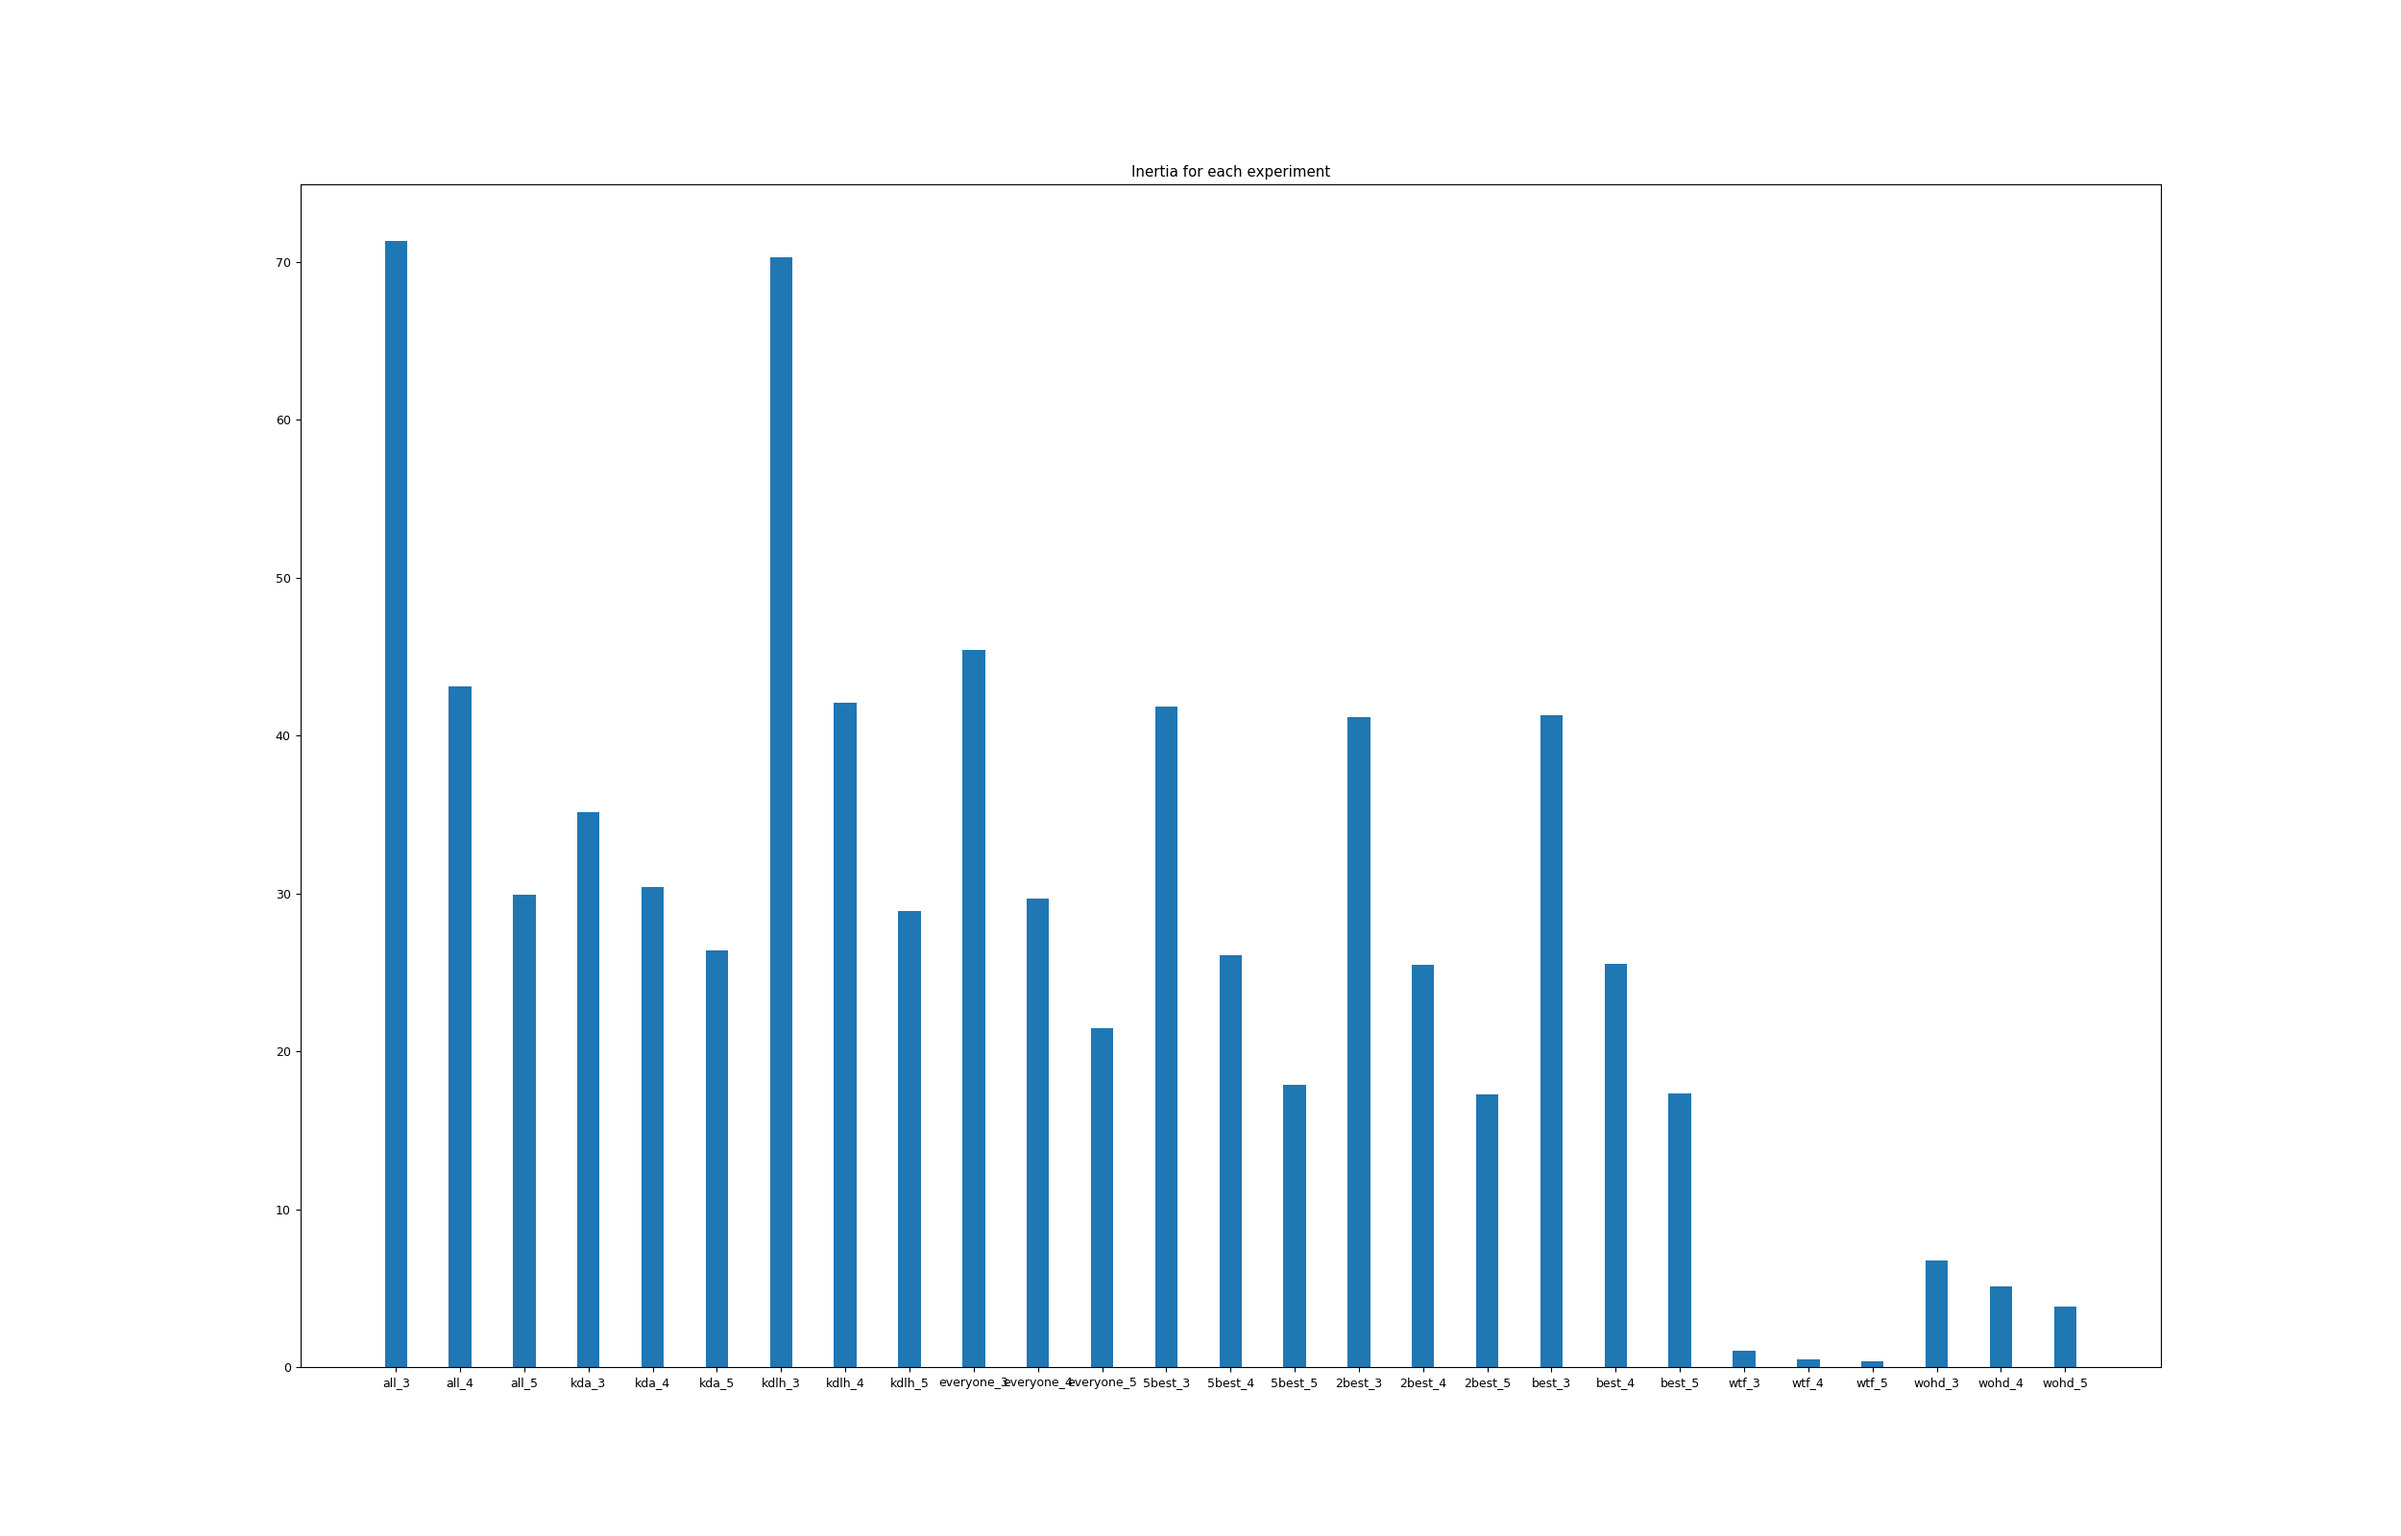
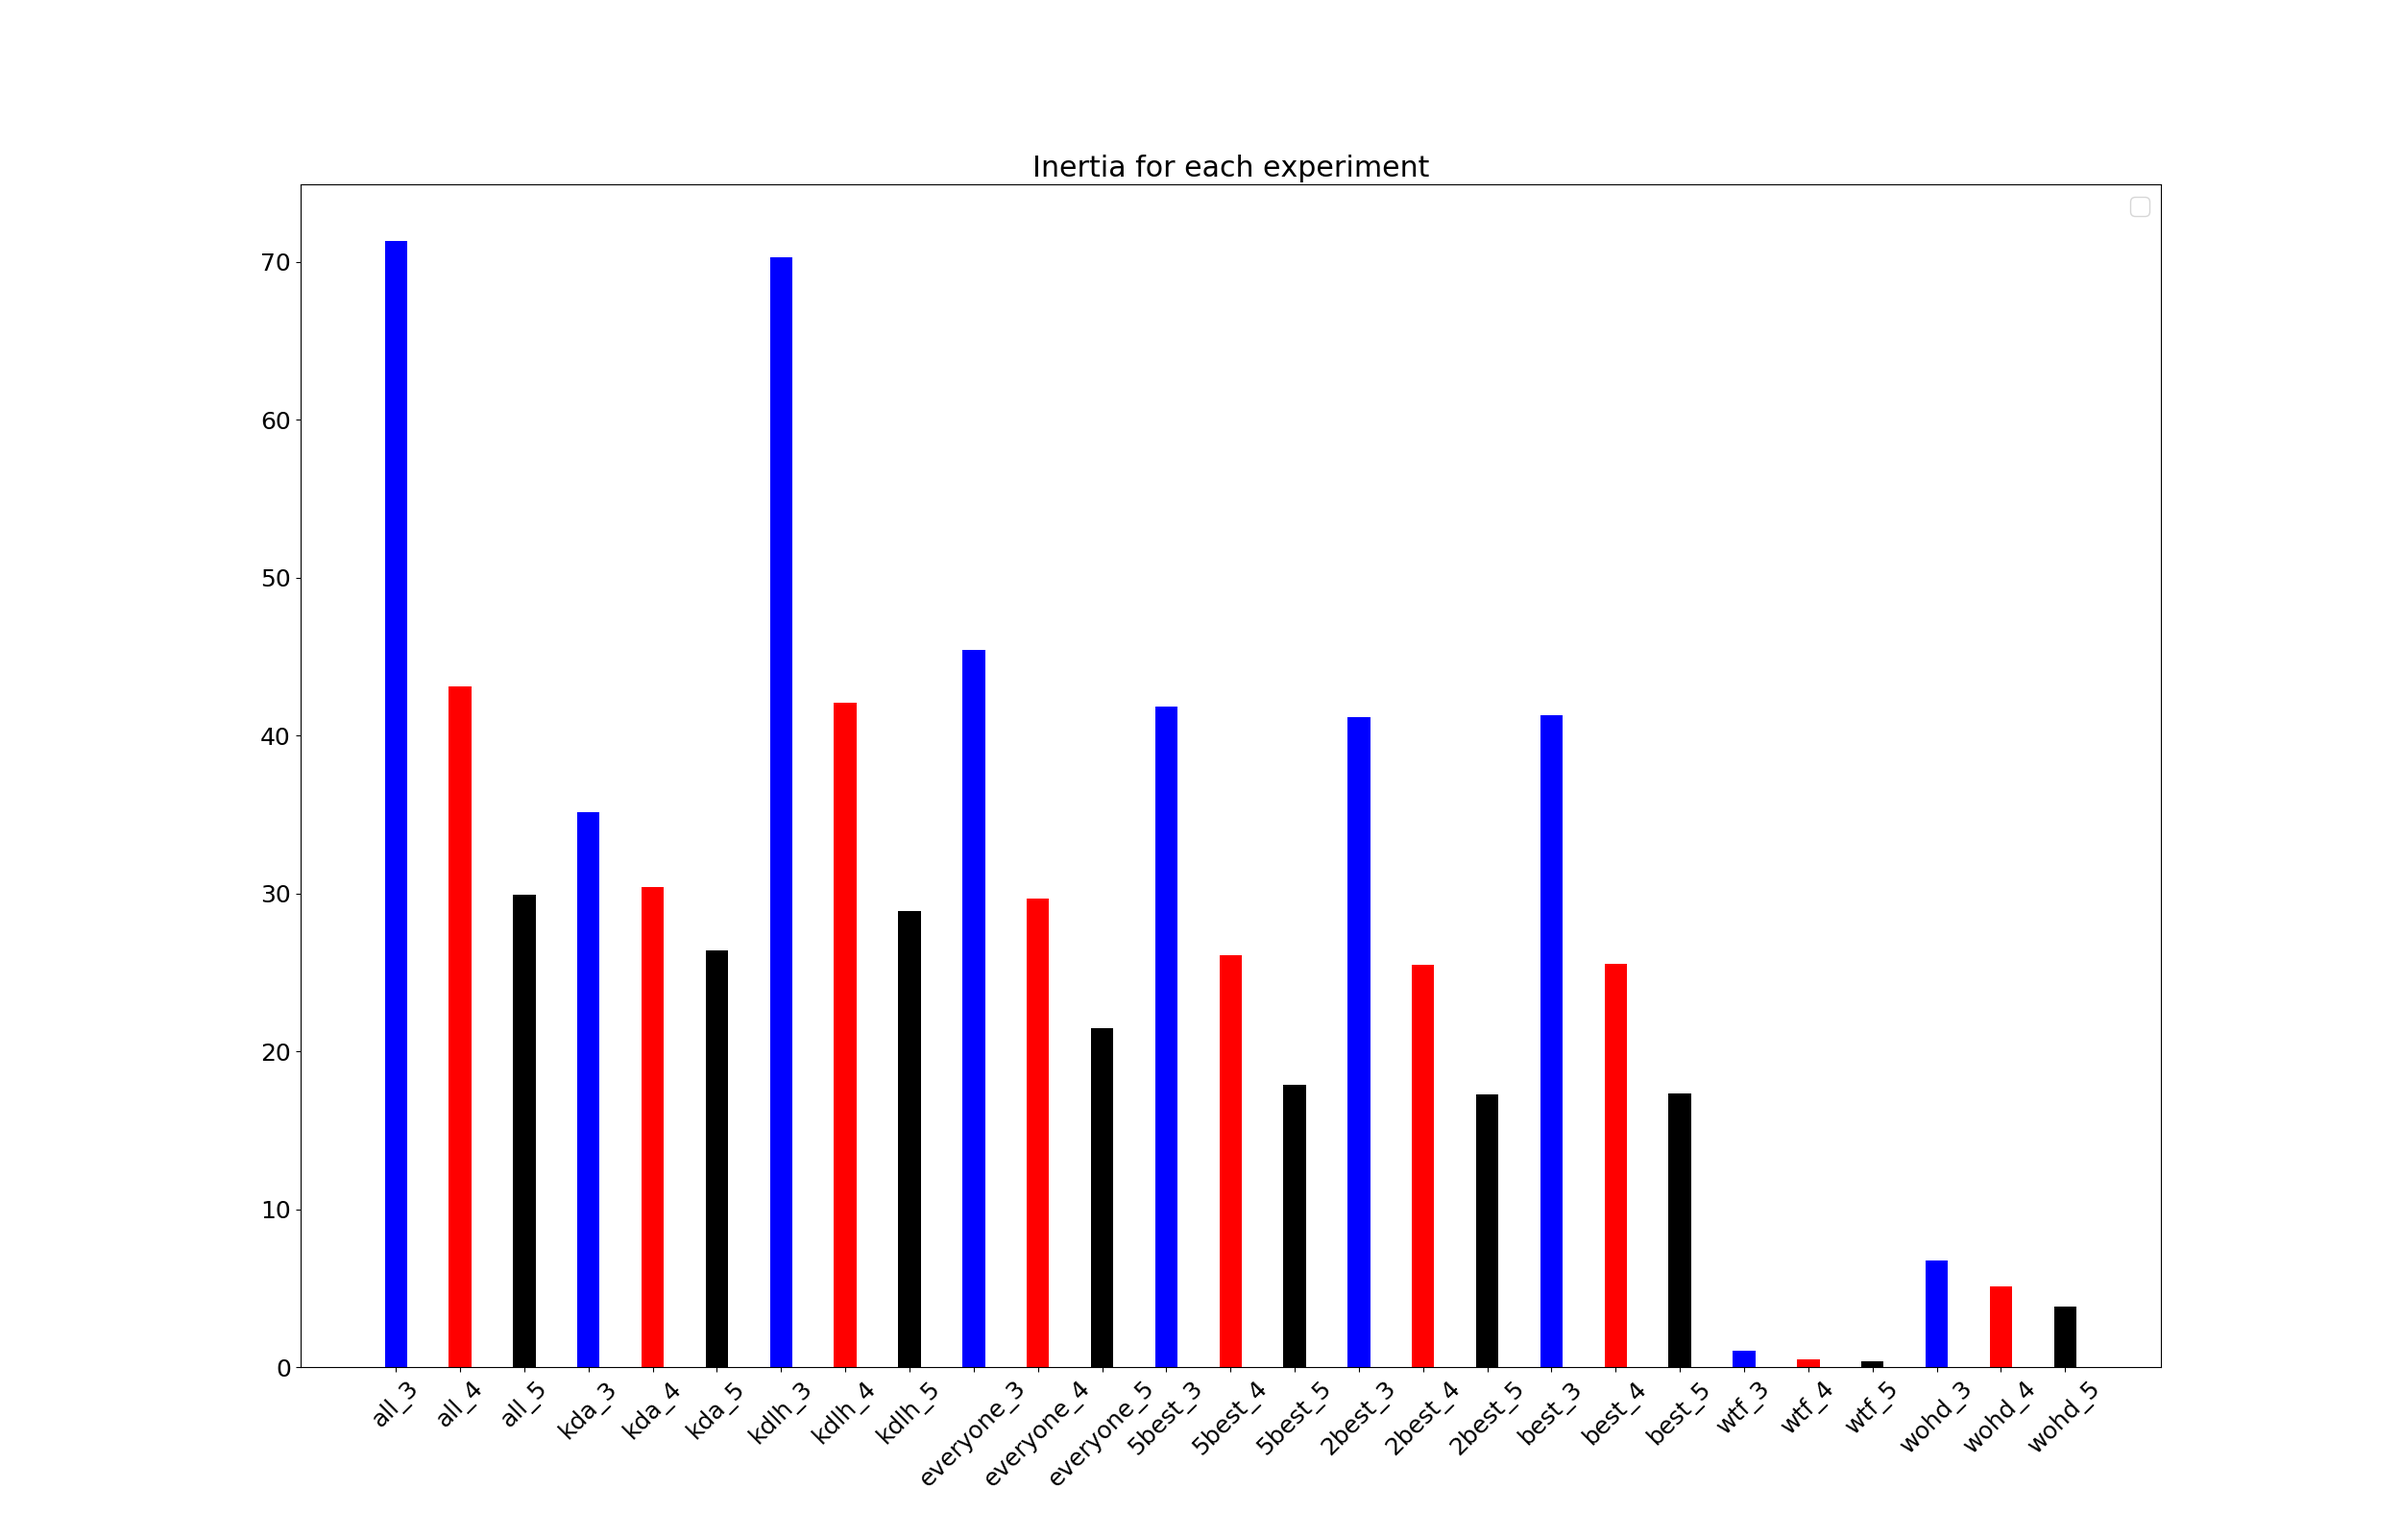
update inertia chart

Changed region(s): [[0.156, 0.1562, 0.8736, 0.9688], [0.4368, 0.0938, 0.5928, 0.125]]

diff --git a/scripts/k-means_experiments.py b/scripts/k-means_experiments.py
@@ -191,15 +191,23 @@ def plot_inertia(data, file_name, show_plots):
 
     plot_data = []
     labels = []
+    colors = []
 
-    for experiment in data.keys():
+    for iteration, experiment in enumerate(data.keys()):
         labels.append(experiment)
         plot_data.append(data[experiment]['inertia'])
+        if iteration % 3 == 0:
+            colors.append('blue')
+        elif iteration % 3 == 1:
+            colors.append('red')
+        else:
+            colors.append('black')
 
     groups = np.arange(len(data.keys()))
     width = 0.35
 
-    plt.bar(groups, plot_data, width, tick_label=labels)
+    plt.bar(groups, plot_data, width, tick_label=labels, color=colors)
+    plt.xticks(groups, labels, rotation=45)
     plt.title("Inertia for each experiment")
     plt.savefig(file_name)
     print('Graph %s saved.' % file_name)
